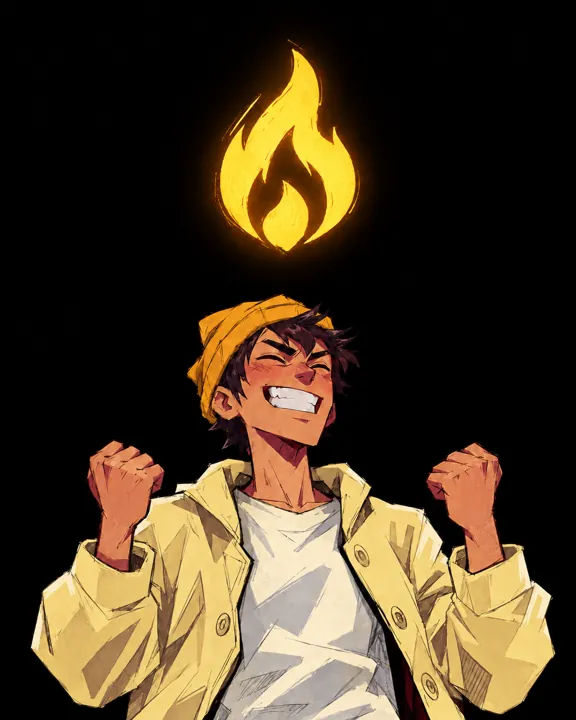
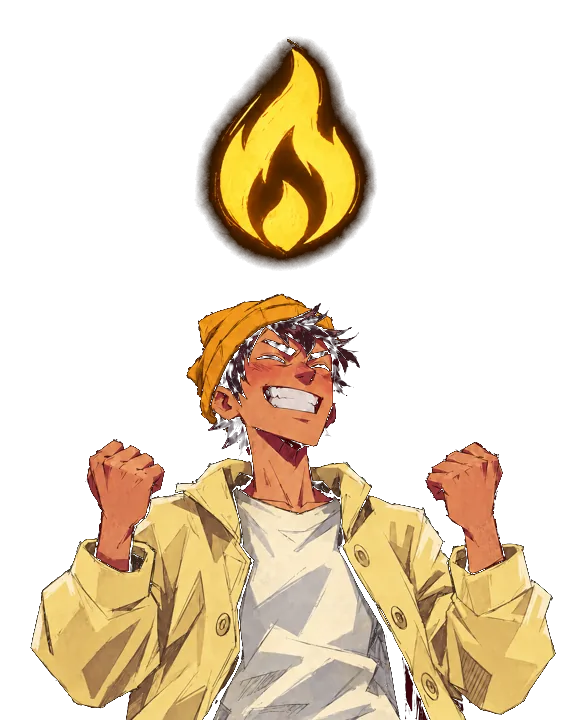
35c-i: the phone walk's fixes to the redesign, and the records
The flame and the trophy see-through on their boxes; the top point's
label in full; each point over its date; Consistency's words fit a small
phone. Exercise Categories joins 35c-iii.

diff --git a/apps/mobile/src/screens/progress/ProgressPage.tsx b/apps/mobile/src/screens/progress/ProgressPage.tsx
@@ -53,6 +53,10 @@ export const trendRead = (period: ProgressPeriod) => `/v1/progress/trend?period=
 const CHART_HEIGHT = 120;
 /** Room above the tallest bar for its number. */
 const BAR_ROOM = 18;
+/** The gap between two bars, and between their dates. */
+const LABEL_GAP = 8;
+/** The top point's label: room for "12,345 kcal" at the phone's largest text. */
+const PEAK_WIDTH = 120;
 const STEP_EACH = { day: "Each day", week: "Each week", month: "Each month", year: "Each year" } as const;
 
 export function ProgressPage({ open, onClose }: { open: boolean; onClose: () => void }) {
@@ -229,7 +233,7 @@ function Records({ records }: { records: PersonalRecords }) {
 }
 
 const AnimatedCircle = Animated.createAnimatedComponent(Circle);
-const RING = 96;
+const RING = 84;
 const RING_STROKE = 9;
 
 /** The days with a workout as a ring that fills, over the strap's woven bars. */
@@ -290,7 +294,9 @@ function Area({ bars, said }: { bars: readonly Bucket[]; said: string }) {
   const drawn = useGrow(1, 260, 1100);
   const top = Math.max(1, ...bars.map((b) => b.kcal));
   const edge = 8;
-  const x = (i: number) => (bars.length === 1 ? width / 2 : edge + (i / (bars.length - 1)) * (width - 2 * edge));
+  // Each point stands over its own date, as the bars do below: the middle of its column.
+  const column = (width - LABEL_GAP * (bars.length - 1)) / Math.max(1, bars.length);
+  const x = (i: number) => column * (i + 0.5) + LABEL_GAP * i;
   const y = (kcal: number) => edge + 14 + (1 - kcal / top) * (CHART_HEIGHT - 2 * edge - 14);
   const line = bars.map((b, i) => `${i === 0 ? "M" : "L"}${x(i).toFixed(1)} ${y(b.kcal).toFixed(1)}`).join(" ");
   const peak = bars.reduce((best, b, i) => ((bars[best]?.kcal ?? 0) < b.kcal ? i : best), 0);
@@ -328,8 +334,8 @@ function Area({ bars, said }: { bars: readonly Bucket[]; said: string }) {
                   ))}
             </Svg>
             {peakBar === undefined || peakBar.kcal === 0 ? null : (
-              <View pointerEvents="none" style={[styles.peak, { left: Math.max(0, Math.min(width - 64, x(peak) - 32)), top: Math.max(0, y(peakBar.kcal) - 24) }]}>
-                <Txt kind="tiny" colour="orangeLight" style={styles.peakWords}>
+              <View pointerEvents="none" style={[styles.peak, { left: Math.max(0, Math.min(width - PEAK_WIDTH, x(peak) - PEAK_WIDTH / 2)), top: Math.max(0, y(peakBar.kcal) - 24) }]}>
+                <Txt kind="tiny" colour="orangeLight" numberOfLines={1} style={styles.peakWords}>
                   {count(peakBar.kcal)} kcal
                 </Txt>
               </View>
@@ -406,25 +412,26 @@ const styles = StyleSheet.create({
   cut: { flexDirection: "row", alignItems: "flex-start", gap: 8, padding: 12, borderRadius: 14, backgroundColor: colours.orangeFill },
   split: { flexDirection: "row", padding: 0, gap: 0 },
   // Beside the rows and never under them, as on the Dashboard's boxes.
-  sideArt: { width: 112 },
+  sideArt: { width: 128, marginVertical: 10 },
   fill: { position: "absolute", width: "100%", height: "100%" },
   record: { flexDirection: "row", alignItems: "center", gap: 12 },
   // The picture on the right half, the box's own colour under the words on the left.
   consistency: { minHeight: 170 },
   consistencyArt: { position: "absolute", top: 0, bottom: 0, right: 0, width: "62%" },
-  consistencyWords: { width: "70%" },
+  // Room for "12 of 30 days" beside the ring on a narrow phone; the shade is still the box's own colour here.
+  consistencyWords: { width: "80%" },
   shade: { experimental_backgroundImage: boxShade },
   ringRow: { flexDirection: "row", alignItems: "center", gap: 14 },
   ringMiddle: { alignItems: "center", justifyContent: "center" },
   chart: { gap: 6 },
   reveal: { height: CHART_HEIGHT, overflow: "hidden" },
-  peak: { position: "absolute", width: 64, alignItems: "center" },
+  peak: { position: "absolute", width: PEAK_WIDTH, alignItems: "center" },
   peakWords: { fontFamily: fonts.semibold },
-  bars: { flexDirection: "row", alignItems: "flex-end", gap: 8 },
+  bars: { flexDirection: "row", alignItems: "flex-end", gap: LABEL_GAP },
   column: { flex: 1, justifyContent: "flex-end", height: "100%", gap: 4 },
   // Flat ends at the foot, round at the top, light orange running down to orange; it never has a border.
   bar: { borderTopLeftRadius: 7, borderTopRightRadius: 7, borderBottomLeftRadius: 2, borderBottomRightRadius: 2, backgroundColor: colours.orange, experimental_backgroundImage: barGradient },
-  labels: { flexDirection: "row", gap: 8 },
+  labels: { flexDirection: "row", gap: LABEL_GAP },
   label: { flex: 1, alignItems: "center", overflow: "visible" },
   centre: { textAlign: "center" },
   // Wider than a thin bar: a crowded row names only some bars, so a name runs under its blank neighbours.

diff --git a/rulings/2026-11-04-35c-i.md b/rulings/2026-11-04-35c-i.md
@@ -6,3 +6,4 @@ What was built: `handoff/2026-11-04-35c-i.md`. The server parts it reads: `rulin
 
 - 2026-11-04 · **35c-i, the plan.** Shown the plan (35c in five jobs: the page as drawn, the predictions, the workout calendar, body measurements and weigh-ins, Achievements; this one: Me's Progress picture opens the page with five periods, Calories Burned, the workouts in bars, Personal Records and Consistency; "No workouts yet" for somebody with none; the plan's history limit said only where it cuts; no server change), Kd: *"go"*.
 - 2026-11-04 · *The terminal's own, his to overrule:* a period is whole calendar days ending on the phone's today (7 Days is today and the 6 days before), as the Dashboard's week is; the server's part-day at the start of its window is not counted. The bars go by day up to 14 days, by week from Monday up to 90, by month up to 400, else by year, and the box is named by its step ("Workouts Per Week"); the first bar starts on the period's first day and is named by it. Personal Records take no period and say what they are from ("From all your workouts", "From your last 90 days"). Consistency is days with a workout of the period's days. A period with no workout reads "No workouts in the last 7 days" in place of the two charts. The limit line says "Any older workouts are still saved", since the server cannot say whether there are any. The periods are one row swiped sideways, as drawn.
+- 2026-11-04 · **Like the web, premium like the Dashboard, with motion.** After his click-through passed, Kd: *"the looks and design should be like the web , and the design cureencly is pathetic … keep this in mind in every feature you have to improve the working or the engine … much better then the web … make it premium super design like the dashboard is … apart keeping the bandage image as main image you can also take use other images … look at markeeting posters final … give some motion as things are way to static now"*. Built: the browser's four numbers (Workouts, Time Trained, Calories Burned, Streak) in the Dashboard's boxes with their pictures, Calories Burned as a glowing line drawn from the left, gradient bars that grow, four records beside the trophy, Consistency as a ring over the woven strap; boxes rise in, numbers count up. *The terminal's own, his to overrule:* pictures from his posters, the golden flame (Streak), the trophy lifted (Personal Records), "Woven progress, tracked" without its words (Consistency); the longest streak moves from the records into the Streak box; each day of the server's trend carries its training time, so Time Trained counts the same days as the rest; motion stops under the phone's Remove animations; Exercise Categories joins 35c-iii with the calendar and the year of activity.

diff --git a/handoff/2026-11-04-35c-i.md b/handoff/2026-11-04-35c-i.md
@@ -7,5 +7,7 @@ Kd's decisions: `rulings/2026-11-04-35c-i.md`.
 - **Built:** `screens/progress/progressRules.ts` (periods, windows, bars, words, records) and `ProgressPage.tsx` (Me's Progress picture opens it). It reads the person's own `GET /v1/progress/trend` and `/v1/progress/records`: no server change, no migration, no new package, no list of people.
 - **Verified:** phone tsc 0, eslint 0; vitest 960 of 960, jest 810 of 810.
 - **Walked on Kd's phone** (Feature 2, dashwalk31a, 8 workouts): every period; 168 kcal and 8 workouts agree with the Dashboard; 7 of 30 days. Fixed on the walk: the periods wrapped (now one row swiped sideways), two empty charts for a week with no workout (now one line), bar names cut short at the largest text. Four shapes, own, 1812x2176 at 420, 720x1520 at 320, text 1.5, all fit; settings put back (1080x2400, 400, 1.15).
+- **First version's checks:** GitHub's six green (run 41781885960) after taking 19a's Settings in (Me's Progress and Settings side by side).
+- **Redesign on Kd's word** (after the click-through passed: like the web, premium like the Dashboard, motion). The web's page pictured with data first (`apps/api/.cost/progress-look.mjs`); `look/Motion.tsx` (rise, count-up, grow; off under Reduce motion and in the screen tests), `look/StatTile.tsx` (the Dashboard's box, now shared), three pictures from Kd's posters (`streak`, `records`, `consistency`, see-through where on black). Server: `getDailyTrend` sums `duration_ms` per day; `trendPointSchema.durationMs`; api test 25 of 25 on `aihg_b` (the days add up to the period's total, a stranger's alone). Walked again on Kd's phone in the four shapes; fixed on the walk: black squares round two pictures, the top point's label cut short, points not over their dates, Consistency's words wrapping on a small phone; settings put back. Verified: phone tsc 0, eslint 0, vitest 968 of 968, jest 836 of 836; api and shared tsc 0, eslint 0.
 - **Next in this folder:** 35c-ii (the predictions on Progress).
 - **Its own ROADMAP line as it stood:** 35c. [ ] **The Progress screen**: the charts, the workout calendar, body measurements and weigh-ins, badges, the weekly challenges and the predictions. Waits for items 10 to 12.

diff --git a/ROADMAP.md b/ROADMAP.md
@@ -674,7 +674,7 @@ Order (Kd, 2026-09-13, reshaped 2026-09-17; RULINGS both days; Stage 1's food le
     - 35c. **The Progress screen** (split 2026-11-04 in five, Kd's "go": the page as drawn first).
       - 35c-i. [ ] **The Progress page as drawn**: five periods, Calories Burned, the workouts in bars, Personal Records, Consistency.
       - 35c-ii. [ ] **The predictions on Progress** (35a's forecast, this week's goal, steady pace, best time).
-      - 35c-iii. [ ] **The workout calendar and activity**.
+      - 35c-iii. [ ] **The workout calendar, a year of activity and Exercise Categories** (the browser's three boxes).
       - 35c-iv. [ ] **Body measurements and weigh-ins**.
       - 35c-v. [ ] **Achievements**: badges, the weekly challenges, the leaderboard.
 36. [ ] **The weekly plan**: the plan builder on the server (6a), the week screen (6b). Doing a planned workout (6c) is exercise folder 2's item 64. Once the plan names a week's sessions, calories burned joins the starter goals with the plan's own number (RULINGS 2026-10-13). Its Workout tab in Recommended For You takes the three choices and rules of spec Part 6 §16.6.
